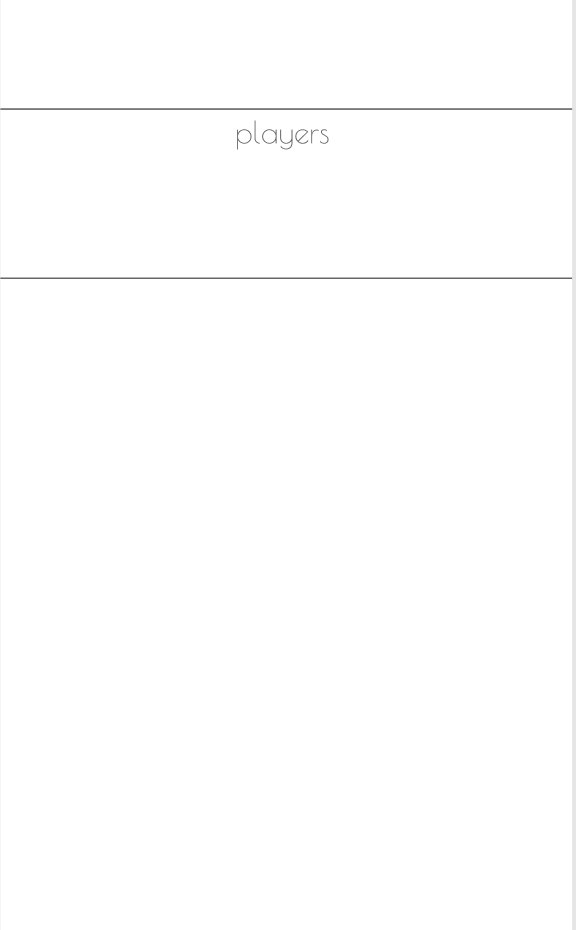
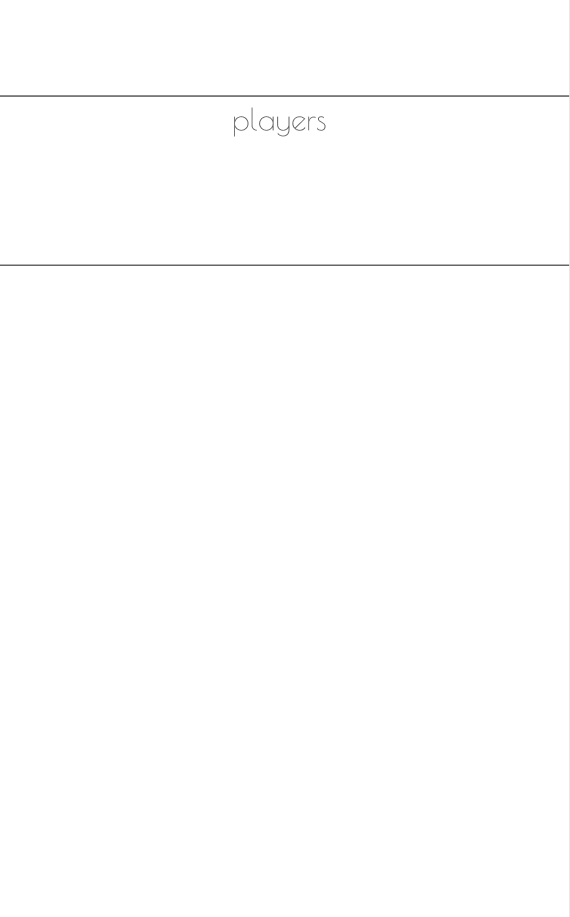
fixed some styling

Changed region(s): [[0.0, 0.0, 1.0, 1.0]]

diff --git a/enLIGHTen/screens/VibeScreen.js b/enLIGHTen/screens/VibeScreen.js
@@ -44,10 +44,8 @@ export default class VibeScreen extends React.Component {
           thumbTintColor="white"/>
       </View>
       <TouchableOpacity onPress={() => {
-              if (mode == "multi") {
+              if (mode == "multi" || func == "questions") {
                   this.props.navigation.navigate('Questions', {mode: mode, category: category, playersInGame:["Sachi"], playersOutOfGame:["Julia", "Cate"], highlightedPlayer: "Sachi"})
-              } else if (func == "questions") {
-                  this.props.navigation.navigate('SinglePlayerQuestions', {mode: mode, category: category, playersInGame:["Sachi"], playersOutOfGame:["Julia", "Cate"], highlightedPlayer: "Sachi"})
               } else if (func == "voice") {
                     this.props.navigation.navigate('Recording', {category: category});
               } else if (func == "notepad") {

diff --git a/enLIGHTen/App.js b/enLIGHTen/App.js
@@ -17,7 +17,6 @@ import CategoriesScreen from './screens/CategoriesScreen';
 import HelpScreen from './screens/HelpScreen';
 import VibeScreen from './screens/VibeScreen';
 import QuestionsScreen from './screens/QuestionsScreen';
-import SinglePlayerQuestionsScreen from './screens/SinglePlayerQuestionsScreen';
 import AddPlayersScreen from './screens/AddPlayersScreen';
 import NotepadScreen from './screens/NotepadScreen';
 import RecordingScreen from './screens/RecordingScreen';
@@ -72,9 +71,6 @@ const AppNavigator = createStackNavigator({
   },
   SinglePlayerMode: {
     screen: SinglePlayerModeScreen
-  },
-  SinglePlayerQuestions: {
-    screen: SinglePlayerQuestionsScreen
   },
   Notepad: {
     screen: NotepadScreen

diff --git a/enLIGHTen/components/NavBar.js b/enLIGHTen/components/NavBar.js
@@ -41,6 +41,7 @@ function Home(props) {
 }
 
 function Settings(props) {
+  var shouldShowBecauseSingle = (props.mode == "single" && props.page)
   if (props.page != "Category" && props.page != "Mode" && props.page != "Vibe" && props.page != "RecordThoughts") {
       return (
         <TouchableOpacity onPress={() => {
@@ -120,10 +121,12 @@ export default class NavBar extends React.Component {
 const styles = StyleSheet.create({
   container: {
     display: "flex",
-    width: "100%",
+    width: 450,
     flexDirection: "row",
     justifyContent: "center",
     alignItems: "center",
+    borderWidth: 1,
+    borderColor: "black"
   },
   iconsContainer: {
     display: "flex",

diff --git a/enLIGHTen/screens/SinglePlayerModeScreen.js b/enLIGHTen/screens/SinglePlayerModeScreen.js
@@ -19,7 +19,7 @@ export default class SinglePlayerModeScreen extends React.Component {
       <View style={styles.container}>
         <NavBar navigation={navigation} page={"RecordThoughts"} mode={""} category={""} playersOutOfGame={""} playersInGame={""}/>
         <View style={styles.imageContainer}>
-         <Image style={{width: 300, height: 130, marginTop: 100}}
+         <Image style={{width: 300, height: 130, marginTop: 75}}
               source={
                 require("../assets/recordThoughts.png")
               }

diff --git a/enLIGHTen/screens/QuestionsScreen.js b/enLIGHTen/screens/QuestionsScreen.js
@@ -136,12 +136,11 @@ const styles = StyleSheet.create({
     backgroundColor: "white",
     display: "flex",
     flex: 1,
-    alignItems: "stretch",
   },
   welcomeContainer: {
     flex: 1,
     height: "100%",
-    width:"100%"
+    width:"100%",
   },
   questionsContainer: {
     display: "flex",
@@ -190,7 +189,7 @@ const styles = StyleSheet.create({
     alignItems: "center",
     paddingLeft: 10,
     paddingRight: 10,
-    marginTop: 90,
+    marginTop: 80,
   },
   iconsContainer: {
     display: "flex",

diff --git a/enLIGHTen/screens/NotepadScreen.js b/enLIGHTen/screens/NotepadScreen.js
@@ -127,7 +127,7 @@ const styles = StyleSheet.create({
   },
   nextContainer: {
     position: "absolute",
-    marginTop: 700,
+    marginTop: 650,
     marginRight: 25
   },
   addPlayerContainer: {

diff --git a/enLIGHTen/screens/RecordingScreen.js b/enLIGHTen/screens/RecordingScreen.js
@@ -187,7 +187,7 @@ const styles = StyleSheet.create({
   },
   nextContainer: {
     position: "absolute",
-    marginTop: 700,
+    marginTop: 650,
     marginRight: 25
   },
   addPlayerContainer: {
